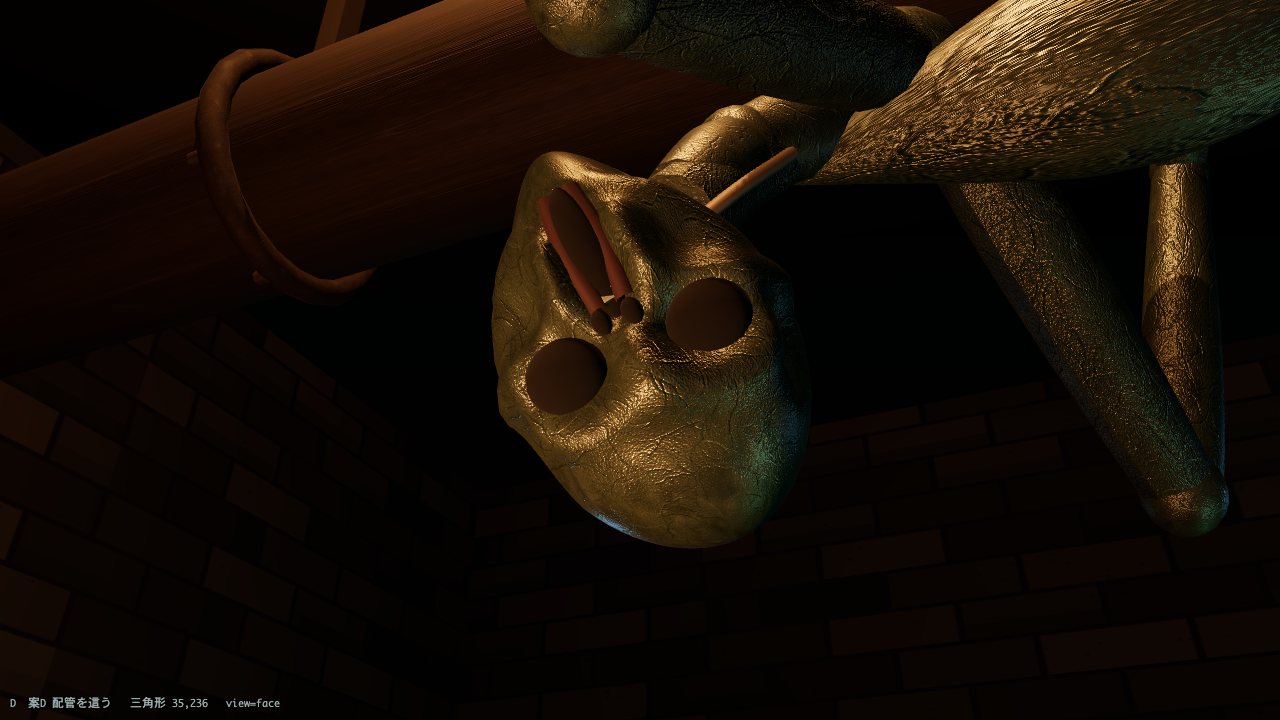
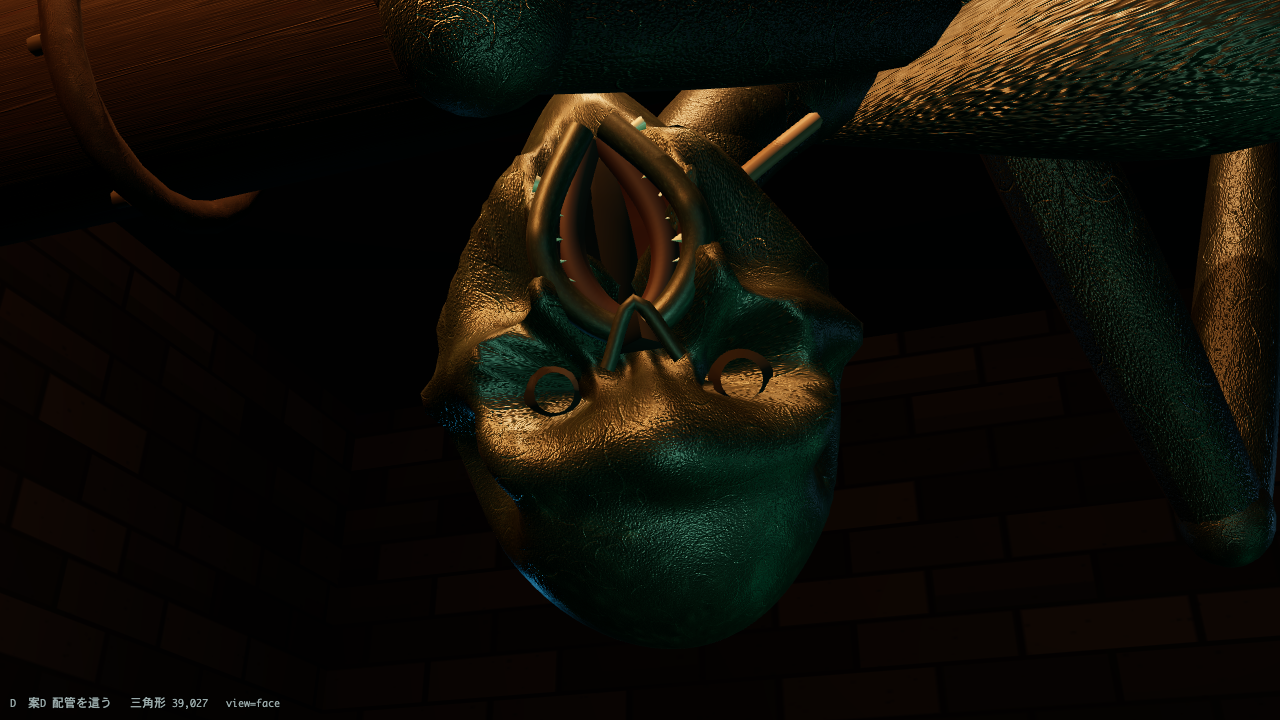
P5e-0: 案D 差し戻し対応（逆さ頭蓋の彫り・骨縁の眼窩・縦裂3倍と歯茎/歯・油膜・下からの緑）

diff --git a/audit/enemy-mocks-a2/3d/mock_D.js b/audit/enemy-mocks-a2/3d/mock_D.js
@@ -10,20 +10,20 @@
 
   var PIPE_Y = 2.72, PIPE_R = 0.185;
   var HEAD = [0.58, 1.98, -0.26];          /* 逆さの頭の中心 */
-  var HRX = 0.132, HRY = 0.172, HRZ = 0.152;
+  var HRX = 0.145, HRY = 0.188, HRZ = 0.166;
 
   function mats() {
     var M = {};
     /* 黒ずんだ皮膚＋油膜（金属味を少し混ぜ、粗さを落として虹色の照り返しを作る） */
-    M.skin = L.skin({ seed: 311, base: '#52574c', dark: 'rgba(16,18,16,', veinColor: 'rgba(30,44,40,0.5)',
-      mottle: 200, vein: 80, wrinkle: 340, pore: 0.42, bump: 3.4, roughLo: 0.12, roughHi: 0.58,
-      tint: 0x9aa89c, metalness: 0.30 });
-    M.face = L.skin({ seed: 313, base: '#585d50', dark: 'rgba(18,20,16,', veinColor: 'rgba(34,50,44,0.45)',
-      mottle: 230, vein: 110, wrinkle: 240, pore: 0.50, bump: 2.1, roughLo: 0.10, roughHi: 0.54,
-      tint: 0xa4b2a6, metalness: 0.30, repeat: [3, 2], nscale: 0.9 });
+    M.skin = L.skin({ seed: 311, base: '#2e332e', dark: 'rgba(8,10,10,', veinColor: 'rgba(30,44,40,0.5)',
+      mottle: 200, vein: 80, wrinkle: 340, pore: 0.42, bump: 3.4, roughLo: 0.18, roughHi: 0.56,
+      tint: 0x8c9c94, metalness: 0.10 });
+    M.face = L.skin({ seed: 313, base: '#343a34', dark: 'rgba(9,11,10,', veinColor: 'rgba(34,50,44,0.45)',
+      mottle: 230, vein: 110, wrinkle: 240, pore: 0.50, bump: 2.1, roughLo: 0.17, roughHi: 0.52,
+      tint: 0x93a79c, metalness: 0.10, repeat: [4, 3], nscale: 0.9 });
     M.void = L.mat(0x030405, 1.0, 0);
-    M.gum = L.mat(0x2a1512, 0.68, 0.02);
-    M.tooth = L.mat(0x8e8670, 0.44, 0.04);
+    M.gum = L.mat(0x24100f, 0.62, 0.02);
+    M.tooth = L.mat(0x9a9076, 0.42, 0.04);
     M.nail = L.mat(0x5a5a4c, 0.34, 0.20);
     M.sinew = L.mat(0x5e4f42, 0.50, 0.05);
     M.pipe = L.skin({ seed: 317, base: '#4a4038', dark: 'rgba(24,16,10,', veinColor: 'rgba(88,52,26,0.5)',
@@ -83,44 +83,104 @@
     g.add(h);
   }
 
-  /* ---- 逆さの顔: 眼窩は空洞、口は唇と歯茎から縦に裂ける ---- */
+  /* ---- 逆さの顔: 人の頭蓋を彫り、眼窩は骨の縁が立った空洞、口は縦に大きく裂ける ---- */
   function head(M) {
     var g = new THREE.Group();
-    var sk = L.headShell({ rx: HRX, ry: HRY, rz: HRZ, seg: 62, socket: 0.048, eye: 0,
-      temple: 0.020, cheek: 0.020, nose: 0.012, jaw: 1.05, chin: 0.010, brow: 0.013, seed: 31 });
-    /* 縦の裂け目: 上唇の上から顎先まで、正中を割って開く */
-    L.ridge(sk, [0, -0.034, -0.126], [0, -0.150, -0.098], 0.026, -0.046, 1.2);
-    L.ridge(sk, [0, -0.034, -0.126], [0, -0.150, -0.098], 0.048, -0.012, 1.1);
-    /* 裂け目の縁が捲れる（左右で捲れ方が違う） */
-    L.ridge(sk, [0.033, -0.040, -0.120], [0.026, -0.146, -0.094], 0.021, 0.015, 1.6);
-    L.ridge(sk, [-0.031, -0.044, -0.120], [-0.024, -0.148, -0.092], 0.020, 0.012, 1.6);
-    L.warp(sk, 0.0024, 17, 12);
+    var sk = L.headShell({ rx: HRX, ry: HRY, rz: HRZ, seg: 68, socket: 0.052, eye: 0,
+      temple: 0.030, cheek: 0.030, nose: 0.020, jaw: 1.10, chin: 0.016, brow: 0.022, seed: 31 });
+    /* 眉弓をさらに重く（左右で量を変える） */
+    L.ridge(sk, [0.008, 0.046, -0.140], [0.104, 0.038, -0.078], 0.034, 0.014, 1.5);
+    L.ridge(sk, [-0.008, 0.038, -0.140], [-0.100, 0.026, -0.078], 0.032, 0.011, 1.5);
+    /* こめかみをさらに抉る／頬骨を張らせる */
+    L.bulge(sk, [0.122, 0.044, -0.052], 0.062, -0.017);
+    L.bulge(sk, [-0.120, 0.034, -0.054], 0.058, -0.022);
+    L.ridge(sk, [0.128, -0.006, -0.012], [0.072, -0.016, -0.112], 0.028, 0.014, 1.7);
+    L.ridge(sk, [-0.126, -0.016, -0.010], [-0.070, -0.026, -0.112], 0.027, 0.012, 1.7);
+    /* 上顎と下顎の段差（歯槽の張り出しと、その下の窪み） */
+    L.ridge(sk, [0.052, -0.052, -0.118], [-0.050, -0.056, -0.118], 0.030, 0.012, 1.5);
+    L.ridge(sk, [0.060, -0.088, -0.112], [-0.058, -0.092, -0.112], 0.020, -0.010, 1.5);
+    L.ridge(sk, [0.058, -0.108, -0.108], [-0.056, -0.112, -0.108], 0.024, 0.010, 1.5);
+    /* 縦の裂け目: 幅を大きく取り、正中を深く抉る */
+    L.ridge(sk, [0, -0.026, -0.140], [0, -0.172, -0.108], 0.052, -0.072, 1.05);
+    /* 裂け目の縁（唇）が外へ捲れる。左右で捲れ方が違う。 */
+    L.ridge(sk, [0.052, -0.022, -0.128], [0.044, -0.168, -0.100], 0.024, 0.020, 1.5);
+    L.ridge(sk, [-0.049, -0.028, -0.128], [-0.041, -0.170, -0.098], 0.022, 0.016, 1.5);
+    L.warp(sk, 0.0028, 17, 12);
+
+    /* --- 眼窩: 骨の縁が立った深い空洞 --- */
+    [[0.070, 0.010, -0.112, 1], [-0.068, -0.006, -0.113, -1]].forEach(function (p, i) {
+      var rr = 0.044 - i * 0.002;
+      /* 縁の骨が立ち上がり、その内側が深く落ちる（殻に彫る） */
+      L.bulge(sk, [p[0], p[1], p[2]], rr * 1.42, 0.013);
+      L.bulge(sk, [p[0], p[1], p[2]], rr * 1.02, -0.068);
+      /* 眼窩の内壁（奥へ抜ける筒）と底の闇 */
+      var cup = new THREE.CylinderGeometry(rr * 0.94, rr * 0.32, 0.066, 18, 1, true);
+      cup.rotateX(Math.PI / 2);
+      var cm = L.m(cup, M.void, [p[0], p[1], p[2] + 0.048], [0.10, p[3] * 0.24, 0]);
+      cm.material.side = THREE.DoubleSide;
+      g.add(cm);
+      g.add(L.m(L.ell(rr * 0.58, rr * 0.52, 0.012, 12), M.void, [p[0], p[1], p[2] + 0.072]));
+    });
+    /* 頬骨と下顎で輪郭を割る（左右非対称） */
+    L.ridge(sk, [0.142, -0.010, -0.020], [0.082, -0.024, -0.120], 0.026, 0.018, 1.8);
+    L.ridge(sk, [-0.140, -0.022, -0.016], [-0.078, -0.036, -0.120], 0.024, 0.014, 1.8);
+    L.ridge(sk, [0.126, -0.052, -0.026], [0.058, -0.150, -0.078], 0.026, 0.016, 1.7);
+    L.ridge(sk, [-0.122, -0.062, -0.022], [-0.054, -0.156, -0.074], 0.024, 0.012, 1.7);
     g.add(L.m(sk, M.face));
-    /* 眼窩の空洞（奥に暗箱） */
-    [[0.062, 0.006, -0.092], [-0.060, -0.006, -0.093]].forEach(function (p, i) {
-      g.add(L.m(L.ell(0.036 - i * 0.001, 0.031, 0.030, 14), M.void, p));
-    });
-    /* 縦裂の口腔（暗い奥行き） */
-    var cav = L.ell(0.019, 0.062, 0.024, 16);
-    g.add(L.m(cav, M.void, [0, -0.092, -0.084]));
-    /* 歯茎（裂け目の両縁）と歯: 歯茎に1本ずつ植わる。縦に並ぶ。 */
+
+    /* --- 鼻腔: 三角の穴（骨が落ちた梨状口） --- */
+    var nasal = new THREE.ConeGeometry(0.026, 0.044, 3);
+    nasal.rotateX(-Math.PI / 2); nasal.rotateZ(Math.PI);
+    g.add(L.m(nasal, M.void, [0.002, -0.026, -0.122], [0.22, 0, 0.06]));
+    g.add(L.m(L.tube([[0.024, -0.006, -0.126], [0.002, -0.046, -0.132], [-0.023, -0.008, -0.126]], 0.0055, 6), M.face));
+
+    /* --- 縦に裂けた口: 唇の断面・歯茎・歯・奥の暗がり --- */
+    var N = 14, Lft = [], Rgt = [], Bot = [], Bot2 = [], eL = [], eR = [];
+    for (var k = 0; k <= N; k++) {
+      var t = k / N, y = -0.030 - 0.140 * t;
+      var w = 0.042 * Math.sin(Math.PI * Math.pow(t, 0.80)) + 0.009;
+      var ze = -0.124 + 0.020 * Math.abs(t - 0.5) + 0.012 * t;
+      var zb = -0.050 - 0.010 * Math.sin(Math.PI * t);
+      Lft.push([w, y, ze]); Rgt.push([-w * 0.94, y, ze]);
+      Bot.push([0.004, y, zb]); Bot2.push([-0.004, y, zb]);
+      eL.push([w * 1.02, y, ze - 0.003]); eR.push([-w * 0.96, y, ze - 0.003]);
+    }
+    g.add(L.m(L.strip(Lft, Bot), M.gum));
+    g.add(L.m(L.strip(Bot, Lft), M.gum));
+    g.add(L.m(L.strip(Bot2, Rgt), M.gum));
+    g.add(L.m(L.strip(Rgt, Bot2), M.gum));
+    /* 奥の暗がり */
+    g.add(L.m(L.ell(0.020, 0.072, 0.030, 14), M.void, [0, -0.100, -0.048]));
+    /* 唇（裂け目の縁の断面が丸く盛る） */
+    g.add(L.m(L.tube(eL, 0.0105, 8), M.face));
+    g.add(L.m(L.tube(eR, 0.0098, 8), M.face));
+    /* 歯茎（暗い赤の畝）と、そこに1本ずつ植わる不揃いの歯 */
     [1, -1].forEach(function (s) {
-      var gum = L.tube([[s * 0.012, -0.038, -0.100], [s * 0.016, -0.092, -0.092], [s * 0.011, -0.148, -0.082]], 0.0090, 8);
-      g.add(L.m(gum, M.gum));
-      L.teeth(g, M.tooth, 8, function (t) {
-        var y = -0.044 - t * 0.100;
-        return [s * 0.0080, y, -0.0985 + t * 0.014];
-      }, [0.0048, 0.0135], s > 0 ? 41 : 47, 0.7);
+      var gp = [];
+      for (var q = 0; q <= 8; q++) {
+        var t2 = q / 8, yy = -0.034 - 0.132 * t2;
+        var ww = (0.042 * Math.sin(Math.PI * Math.pow(t2, 0.80)) + 0.009) * 0.62;
+        gp.push([s * ww, yy, -0.104 + 0.016 * t2]);
+      }
+      g.add(L.m(L.tube(gp, 0.0105, 8), M.gum));
+      var R2 = L.rng(s > 0 ? 41 : 47);
+      for (var n = 0; n < 9; n++) {
+        var t3 = 0.04 + 0.92 * n / 8, yy2 = -0.034 - 0.132 * t3;
+        var ww2 = (0.042 * Math.sin(Math.PI * Math.pow(t3, 0.80)) + 0.009) * 0.68;
+        var hh = 0.014 + R2() * 0.013, cw = 0.0048 + R2() * 0.0026;
+        var cone = new THREE.ConeGeometry(cw, hh, 5);
+        cone.translate(0, -hh / 2, 0);
+        var tm = L.m(cone, M.tooth, [s * ww2, yy2, -0.114 + 0.016 * t3 + (R2() - 0.5) * 0.006]);
+        tm.rotation.order = 'ZXY';
+        tm.rotation.z = s * (1.30 + (R2() - 0.5) * 0.5);      /* 裂け目の内へ倒す */
+        tm.rotation.x = (R2() - 0.5) * 0.5;
+        g.add(tm);
+      }
     });
-    /* 歯の向きを裂け目の内へ倒す */
-    g.children.forEach(function (c) {
-      if (c.material === M.tooth) { c.rotation.z += (c.position.x > 0 ? -1 : 1) * 1.25; }
-    });
-    /* 鼻腔の穴・耳の残骸・首から垂れる腱 */
-    g.add(L.m(L.ell(0.0085, 0.0110, 0.010, 10), M.void, [0.013, -0.020, -0.131]));
-    g.add(L.m(L.ell(0.0080, 0.0105, 0.010, 10), M.void, [-0.012, -0.023, -0.131]));
-    g.add(L.m(new THREE.TorusGeometry(0.020, 0.0055, 6, 16, 4.2), M.face, [0.097, -0.016, 0.000], [0.2, 1.5, 0.8]));
-    g.add(L.m(new THREE.TorusGeometry(0.014, 0.0042, 6, 14, 3.0), M.face, [-0.096, -0.024, 0.006], [0.1, -1.5, -0.9]));
+    /* 耳の残骸（左右で残り方が違う）と首の腱 */
+    g.add(L.m(new THREE.TorusGeometry(0.024, 0.0065, 6, 16, 4.2), M.face, [0.128, -0.018, 0.000], [0.2, 1.5, 0.8]));
+    g.add(L.m(new THREE.TorusGeometry(0.016, 0.0048, 6, 14, 2.9), M.face, [-0.127, -0.028, 0.008], [0.1, -1.5, -0.9]));
+    g.add(L.m(L.ell(0.007, 0.008, 0.007, 8), M.void, [0.124, -0.020, -0.006]));
     return g;
   }
 
@@ -176,7 +236,7 @@
 
     /* ---- 四肢（各4節・3関節以上）: 配管に絡みつく ---- */
     var limbs = [
-      [[0.34, 2.46, -0.08], [0.52, 2.16, -0.52], [0.66, 2.74, -0.54], [0.74, 2.94, -0.16], [0.70, 2.84, 0.14]],
+      [[0.36, 2.46, -0.08], [0.58, 2.08, -0.56], [0.78, 2.54, -0.66], [0.88, 2.84, -0.40], [0.86, 2.70, -0.18]],
       [[0.28, 2.48, 0.06], [0.10, 2.10, 0.50], [-0.06, 2.70, 0.56], [-0.14, 2.92, 0.18], [-0.10, 2.82, -0.12]],
       [[-0.62, 2.40, -0.08], [-0.86, 2.02, -0.56], [-1.10, 2.68, -0.58], [-1.18, 2.92, -0.18], [-1.14, 2.84, 0.14]],
       [[-0.66, 2.42, 0.06], [-0.98, 2.10, 0.52], [-1.28, 2.72, 0.52], [-1.40, 2.92, 0.14], [-1.36, 2.84, -0.16]]
@@ -198,14 +258,15 @@
     root.add(L.m(nk, M.skin));
     var hd = head(M);
     hd.position.set(HEAD[0], HEAD[1], HEAD[2]);
-    hd.rotation.set(-0.46, 0.22, Math.PI - 0.30);       /* 逆さ: 額が下・顎が上 */
+    hd.rotation.set(-0.40, 0.30, Math.PI - 0.08);       /* 逆さ: 額が下・顎が上 */
     root.add(hd);
     /* 首から頭へ走る腱 */
     root.add(L.m(L.tube([[0.49, 2.28, -0.13], [0.53, 2.18, -0.20], [0.56, 2.12, -0.24]], 0.010, 6), M.sinew));
     root.add(L.m(L.tube([[0.45, 2.26, -0.18], [0.50, 2.17, -0.24], [0.54, 2.11, -0.27]], 0.008, 6), M.sinew));
     /* 配管の下に吊られた灯からの回り込み（この個体は下から照らされる） */
-    var up = new THREE.PointLight(0xffb070, 13, 6.5, 2); up.position.set(0.85, 1.25, -1.05); root.add(up);
-    var up2 = new THREE.PointLight(0x6ea08c, 5.0, 6.0, 2); up2.position.set(-0.9, 1.05, 0.45); root.add(up2);
+    var up = new THREE.PointLight(0xffa858, 20, 7.2, 2); up.position.set(1.05, 2.85, -1.45); root.add(up);
+    var up2 = new THREE.PointLight(0x7cbaa2, 7.5, 6.2, 2); up2.position.set(-0.05, 1.02, -0.95); root.add(up2);
+    var up3 = new THREE.PointLight(0x4e9c80, 4.0, 5.0, 2); up3.position.set(-1.10, 1.00, 0.40); root.add(up3);
     return root;
   }
 
@@ -214,7 +275,7 @@
     build: build,
     cams: {
       full: { pos: [0.46, 0.72, -3.00], look: [-0.26, 2.36, -0.04], fov: 52 },
-      face: { pos: [0.30, 1.50, -0.94], look: [0.57, 1.95, -0.31], fov: 40 }
+      face: { pos: [0.33, 1.58, -1.02], look: [0.55, 1.95, -0.36], fov: 33 }
     }
   };
 })();
